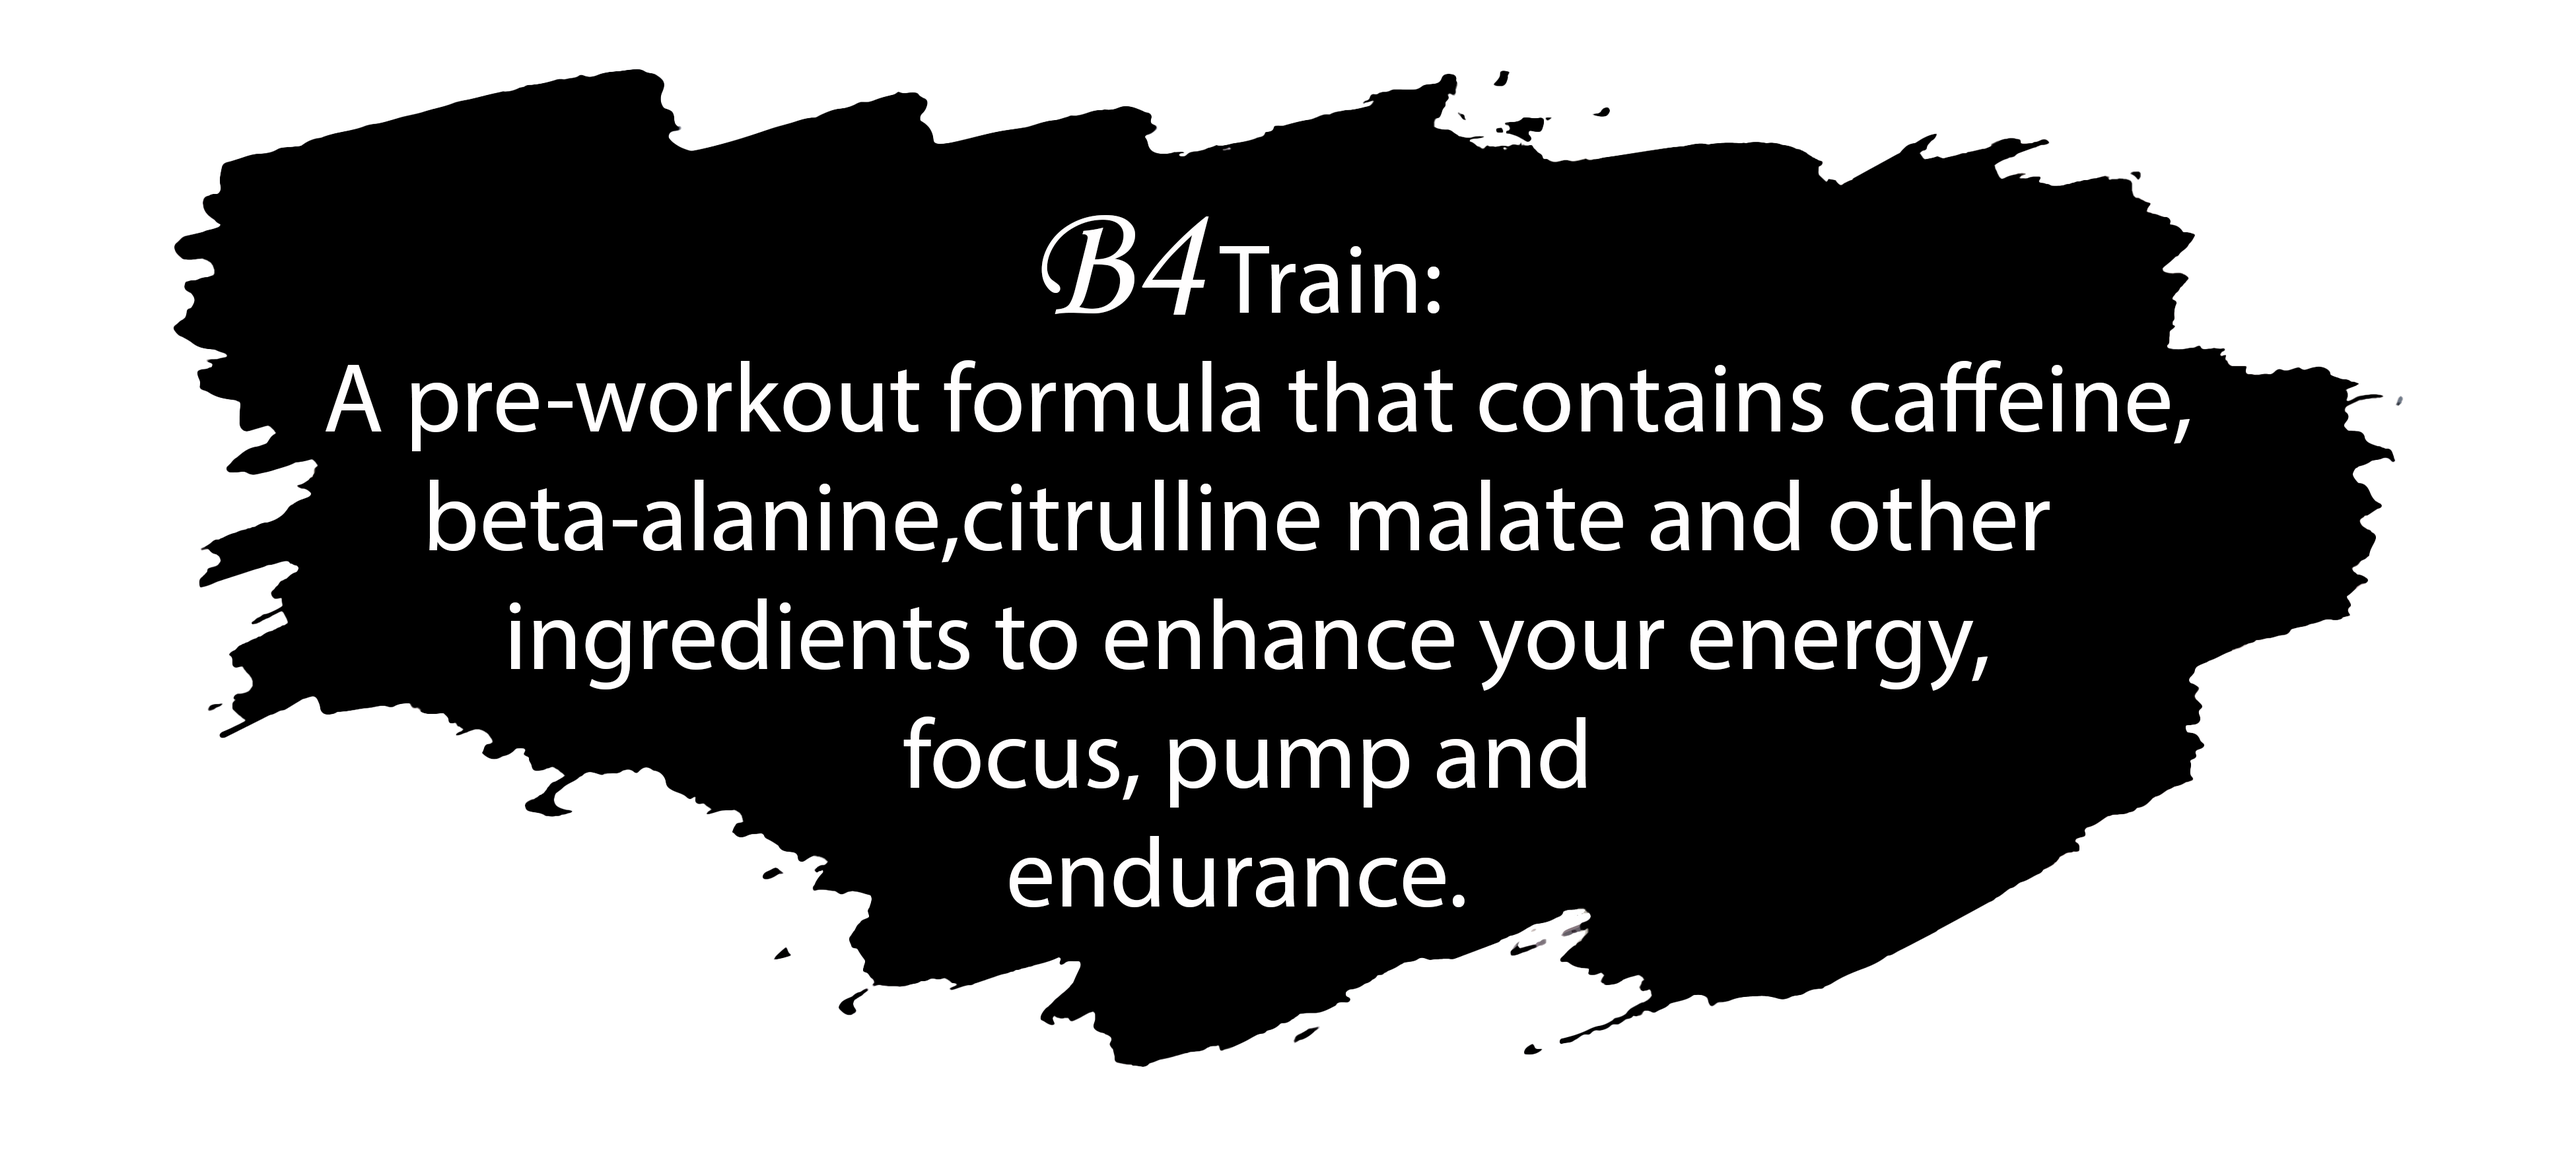
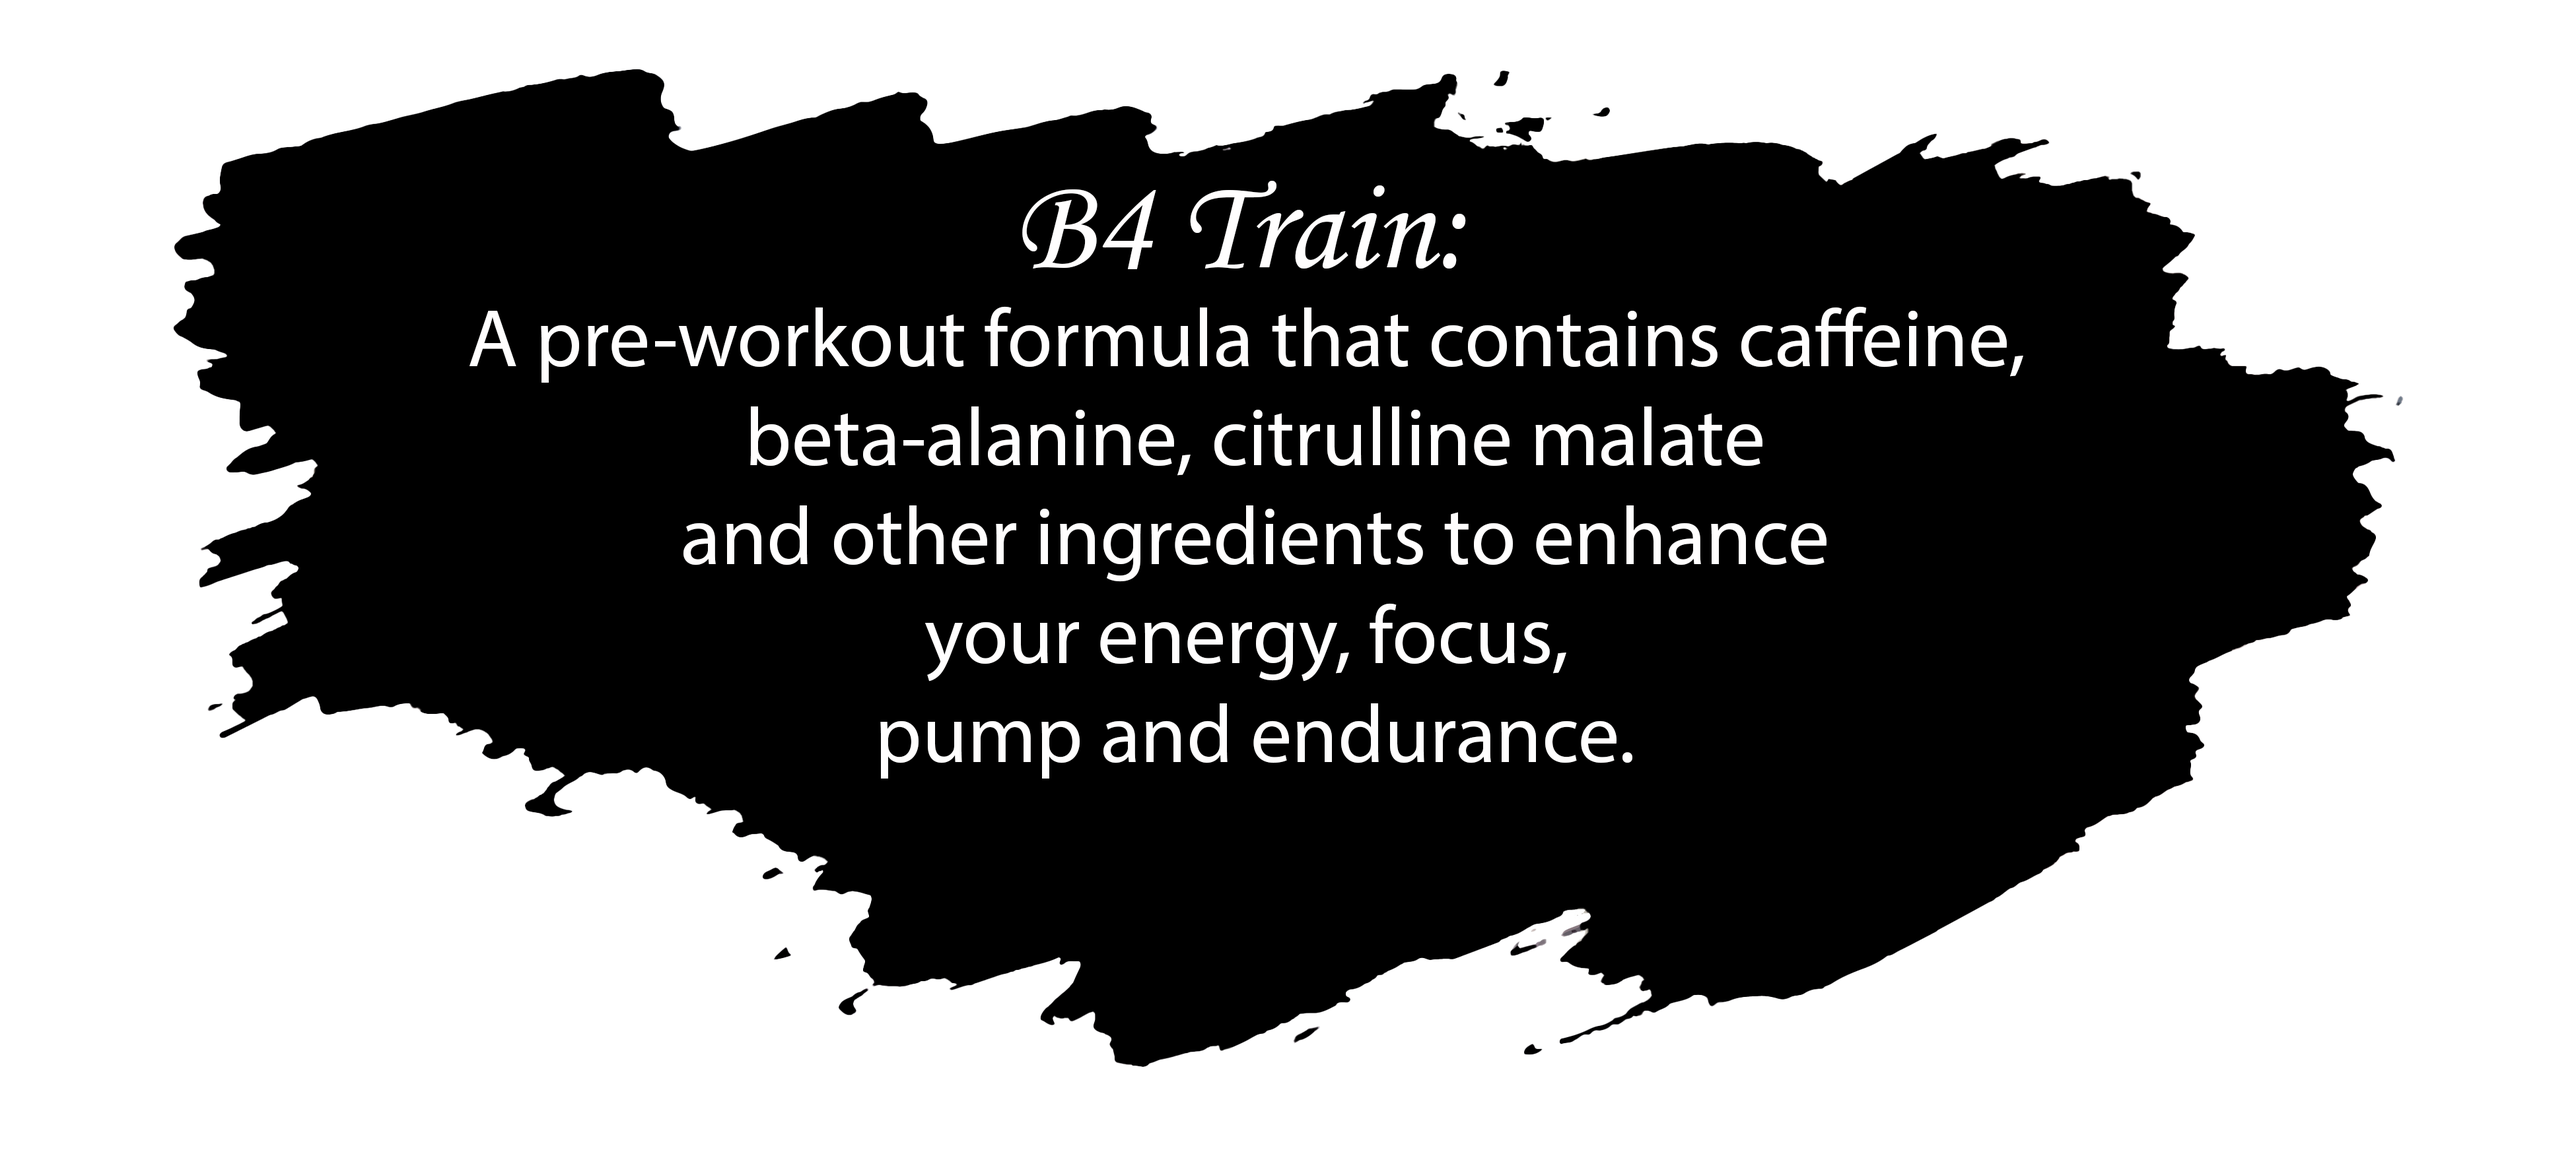
added more homepage text and readjusted image sizes

diff --git a/src/Pages/HomePage.js b/src/Pages/HomePage.js
@@ -107,6 +107,9 @@ function HomePage() {
           src={sncproducts}
           alt="supplements"
         />
+        <div className="homepage-info-text-image-container">
+          <img className="homepage-info-text-image" src="/images/13759 copy.png" alt="description" />
+        </div>
         <div className="homePage-product-cards-container">
           <div className="protein-product-card-container">
             <div className="image-container">
@@ -121,8 +124,9 @@ function HomePage() {
                 </div>
   </Link>*/}
               <div className="homepage-info-text-image-container">
-                <img className="homepage-info-text-image" src="/images/13759 copy.png" alt="description" />
+                <img className="homepage-info-text-image" src="/images/13759 copy after train.png" alt="description" />
               </div>
+
             </div>
           </div>
           <div className="pre-workout-product-card-container">
@@ -133,7 +137,7 @@ function HomePage() {
                 alt="protein"
               />
               <div className="homepage-info-text-image-container">
-                <img className="homepage-b4Train-text-image" src="images/13759 copy b4 train.png" alt="description" />
+                <img className="homepage-b4Train-text-image" src="/images/13759 copy b4 train.png" alt="description" />
               </div>
               {/*<Link to="/PreWorkoutCataloguePage">
                 <div className="text-overlay">

diff --git a/src/HomePage.css b/src/HomePage.css
@@ -51,7 +51,7 @@
 
 .homePage-studio-image {
     width: 100vw;
-    height: 30vh;
+    height: 20vh;
 }
 
 .pre-workout-homePage-image {
@@ -67,22 +67,22 @@
     padding: 5px 10px 0 10px;
     margin-bottom: 0;
 }
-.homepage-info-text-image {    margin: auto;
+.homepage-info-text-image {   
+    margin: auto;
     height: 25vh;
     width: 100vw;
 }
 .homepage-b4Train-text-image {
-    height: 30vh;
+    height: 25vh;
     width: 100vw;
-    border: none;
 }
 .homepage-stage-ripped-text-image {
-    height: 20vh;
+    height: 25vh;
     width: 100vw;
     margin-top: 0;
 }
 .wellbeing-homePage-image {
-    height: 25vh;
+    height: 20vh;
     width: 100vw;
     margin: auto;
     margin-top: 0;
